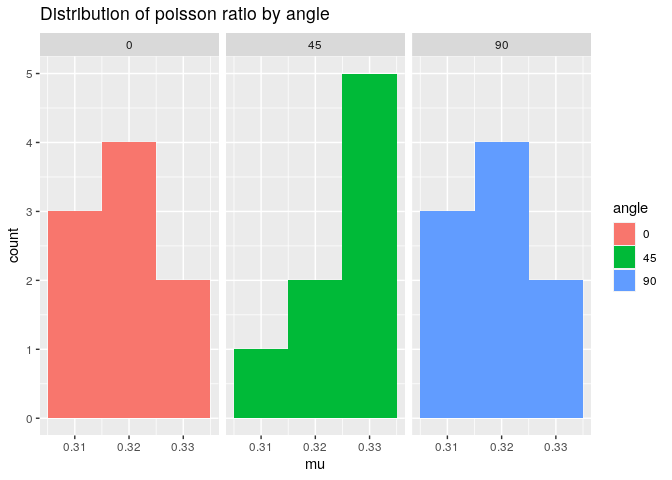
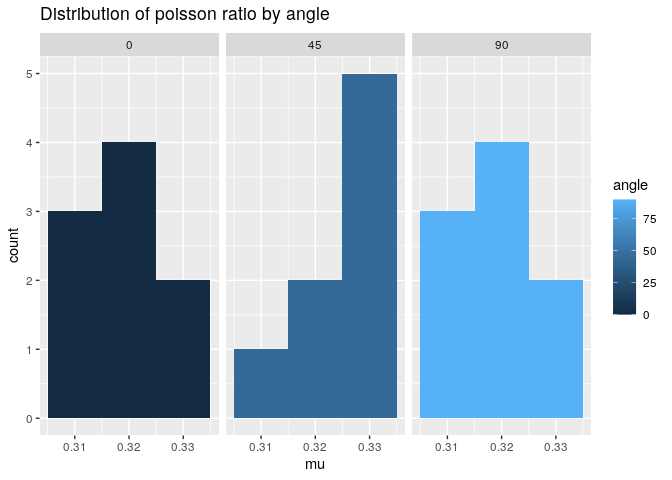
update stang challenge

Changed region(s): [[0.0625, 0.2812, 0.3125, 0.875], [0.3438, 0.1562, 0.5938, 0.875], [0.9062, 0.375, 0.9688, 0.6562]]

diff --git a/c03-stang-assignment.md b/c03-stang-assignment.md
@@ -68,14 +68,14 @@ for more information.
 library(tidyverse)
 ```
 
-    ## ── Attaching packages ────────────────────── tidyverse 1.3.0 ──
+    ## ── Attaching packages ─────────────────────────────────────── tidyverse 1.3.0 ──
 
     ## ✓ ggplot2 3.3.2     ✓ purrr   0.3.4
     ## ✓ tibble  3.0.1     ✓ dplyr   1.0.0
     ## ✓ tidyr   1.1.0     ✓ stringr 1.4.0
     ## ✓ readr   1.3.1     ✓ forcats 0.5.0
 
-    ## ── Conflicts ───────────────────────── tidyverse_conflicts() ──
+    ## ── Conflicts ────────────────────────────────────────── tidyverse_conflicts() ──
     ## x dplyr::filter() masks stats::filter()
     ## x dplyr::lag()    masks stats::lag()
 
@@ -321,17 +321,6 @@ above. Can you find an answer to your question using the dataset? Would
 you need additional information to answer your question?
 
 ``` r
-df_stang_long$angle = as.character(df_stang_long$angle)
-df_stang_long %>%
-  ggplot(aes(mu,angle, color = angle)) +
-  geom_boxplot() +
-  coord_flip() + 
-  ggtitle("Distribution of poisson ratio by angle")
-```
-
-![](c03-stang-assignment_files/figure-gfm/q3-task-1.png)<!-- -->
-
-``` r
 df_stang_long %>%
   ggplot(aes(mu, fill = angle)) +
   geom_histogram(binwidth = 0.01)  +
@@ -340,6 +329,11 @@ df_stang_long %>%
 ```
 
 ![](c03-stang-assignment_files/figure-gfm/mu-1.png)<!-- -->
+
+**Observations**
+
+It looks like mu may have some angle dependence, but it is hard to tell
+with the small number of observations we have here.
 
 ``` r
 df_stang_long$angle = as.character(df_stang_long$angle)
@@ -361,16 +355,22 @@ df_stang_long %>%
 ```
 
 ![](c03-stang-assignment_files/figure-gfm/E%20hist-1.png)<!-- -->
+
+``` r
+df_stang_long %>%
+  ggplot(aes(E, color = angle)) +
+  geom_density() +
+  ggtitle("Distribution of tensile modulus by angle")
+```
+
+![](c03-stang-assignment_files/figure-gfm/E%20dist-1.png)<!-- -->
+
 **Observations**:
 
-  - It seems that while angles of 0 and 90 are fairly similar, angle 45
-    has somewhat different properties. The distribution of modulus
-    values is nearer to the median value, and the median mu values of 45
-    degrees is in the top quartile of mu values for 0 and 90 degrees.
-
-It is worth noting that the number of data point is small. Each
-‘quartile’ in the box plot is only comprised of 2 data points, so
-using the box plot visualization may be misleading.
+  - E does not seem to have an angle dependence. It is worth noting that
+    the number of data point is small. Each ‘quartile’ in the box plot
+    is only comprised of 2 data points, so using the box plot
+    visualization may be misleading.
 
 If we consider the histogram visualization, it seems that there may be a
 difference in the poissons ration of the 45 angle samples, but the
